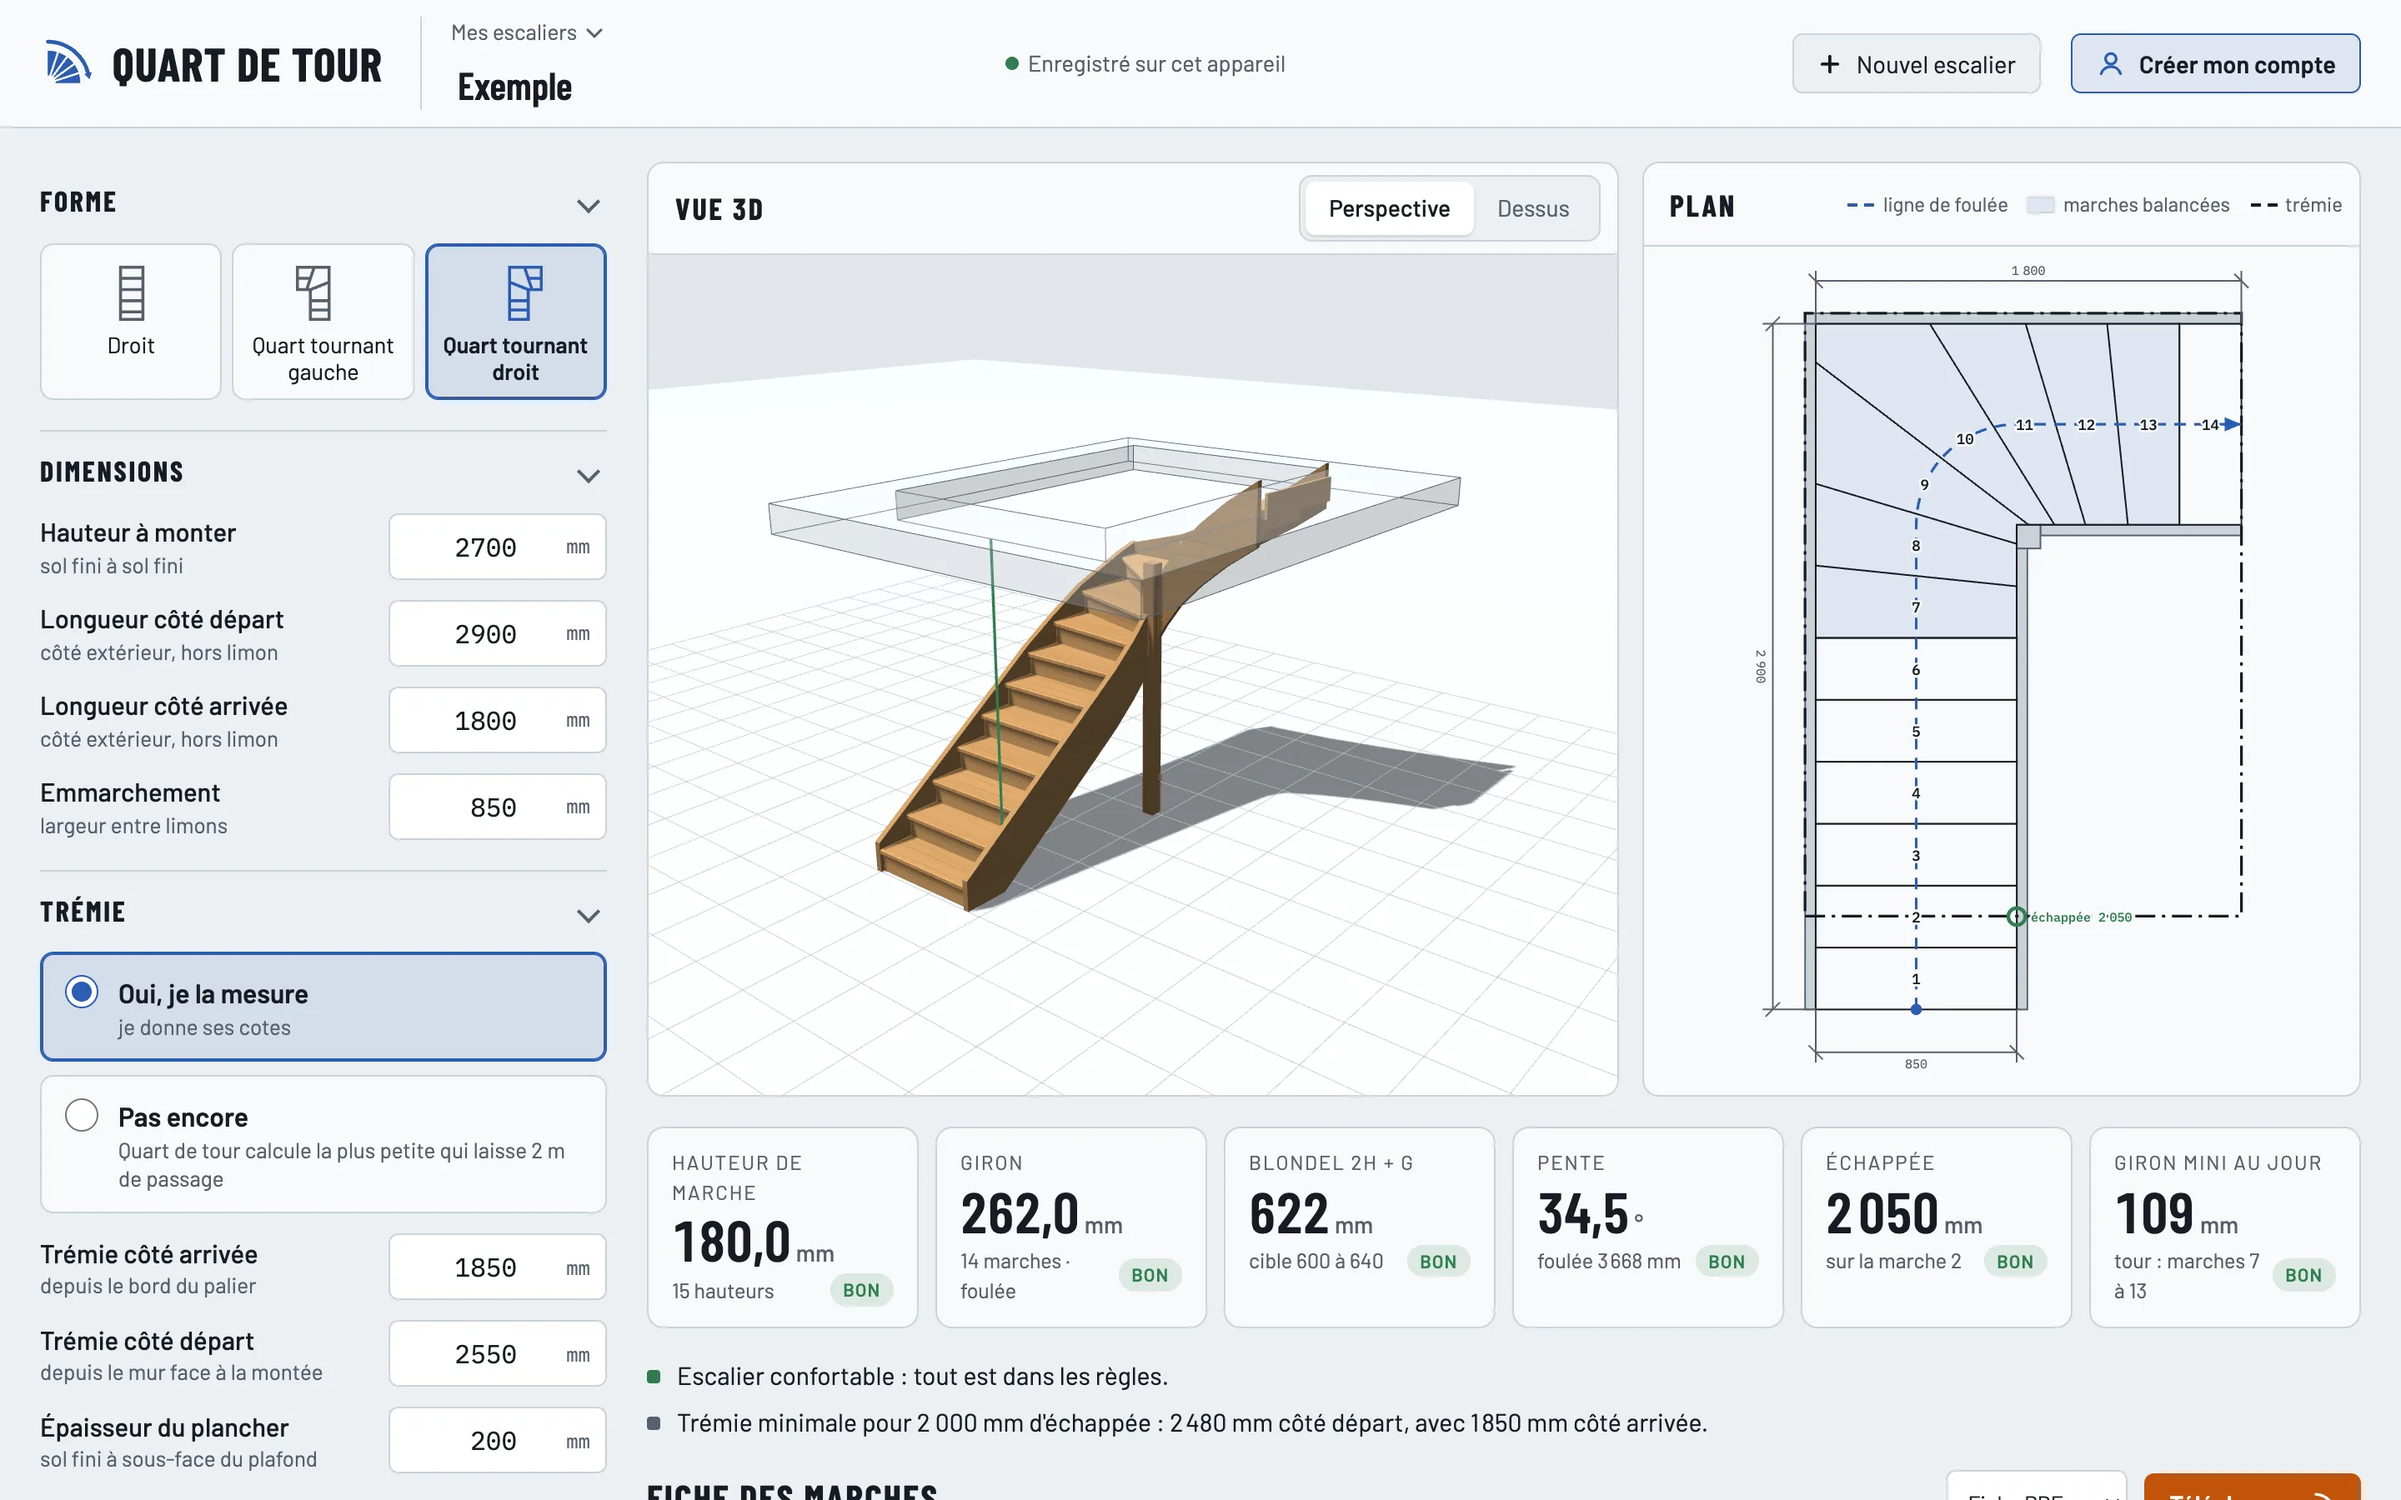
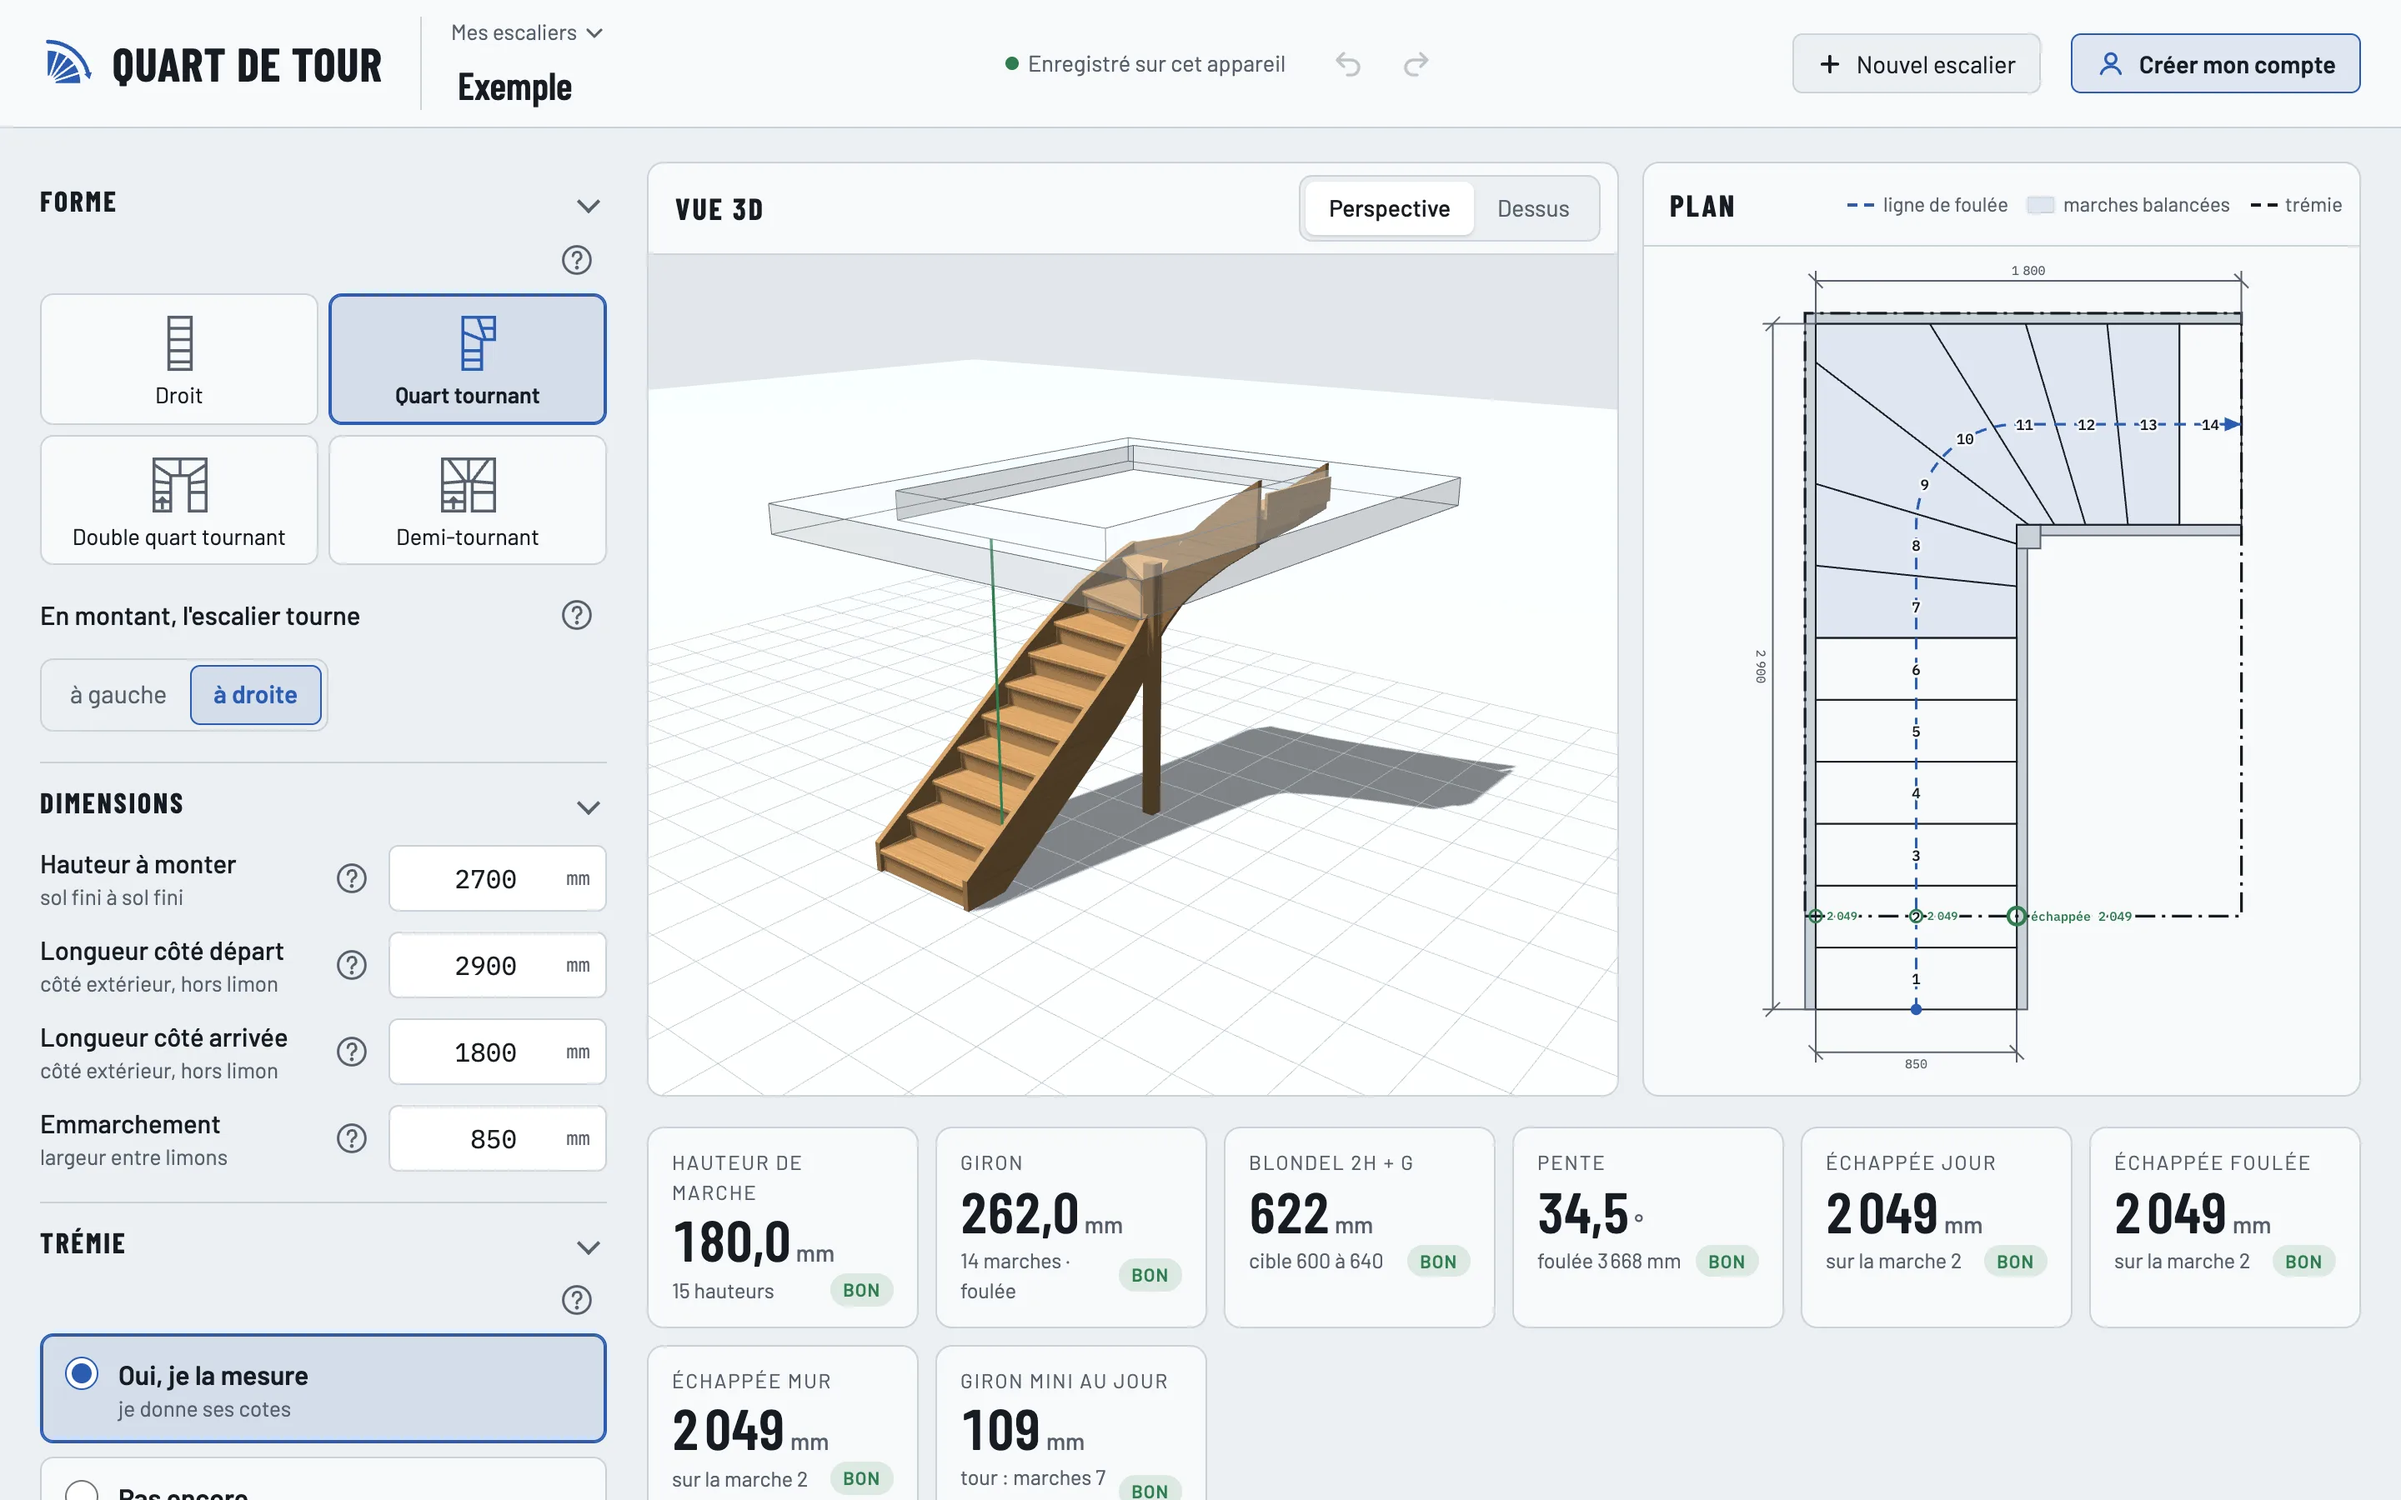
Forme en quatre cases, sens du tournant à part
Les sept cases deviennent quatre (droit, quart tournant, double quart
tournant, demi-tournant) ; « En montant, l'escalier tourne à gauche / à
droite » se choisit dessous quand la forme tourne, et les pictogrammes se
retournent avec. La forme enregistrée ne change pas (quart-g, demi-d…).

Une phrase sous les cases dit la différence entre double quart et
demi-tournant, et l'aide de la forme la précise.

diff --git a/app/index.html b/app/index.html
@@ -104,53 +104,45 @@
                   <path d="M11 9h12M11 15h12M11 21h12M11 27h12" /></svg
                 >Droit</label
               >
-              <input type="radio" name="forme" id="f-qg" value="quart-g" />
-              <label for="f-qg"
-                ><svg viewBox="0 0 34 34">
-                  <path d="M20 31V3H3v12h7v16z" />
-                  <path d="M10 26h10M10 21h10M10 15l10-4M8 15l4-12M3 9h7" /></svg
-                >Quart tournant gauche</label
-              >
-              <input type="radio" name="forme" id="f-qd" value="quart-d" />
-              <label for="f-qd"
-                ><svg viewBox="0 0 34 34">
+              <input type="radio" name="forme" id="f-quart" value="quart" />
+              <label for="f-quart"
+                ><svg class="tourne" viewBox="0 0 34 34">
                   <path d="M14 31V3h17v12h-7v16z" />
                   <path d="M14 26h10M14 21h10M24 15l-10-4M26 15l-4-12M31 9h-7" /></svg
-                >Quart tournant droit</label
+                >Quart tournant</label
               >
-              <input type="radio" name="forme" id="f-dqg" value="dq-g" />
-              <label for="f-dqg"
-                ><svg viewBox="0 0 34 34">
-                  <path d="M3 3h28v28h-9V12H12v19H3z" />
-                  <path d="M22 26h9M22 21h9M22 15l9 1M22 12l9-6M17 12V3M12 12L3 6M12 15l-9 1M3 21h9" />
-                  <path d="M26.5 30v-6M24.5 26l2-2 2 2" /></svg
-                >Double quart gauche</label
-              >
-              <input type="radio" name="forme" id="f-dqd" value="dq-d" />
-              <label for="f-dqd"
-                ><svg viewBox="0 0 34 34">
+              <input type="radio" name="forme" id="f-dq" value="dq" />
+              <label for="f-dq"
+                ><svg class="tourne" viewBox="0 0 34 34">
                   <path d="M3 3h28v28h-9V12H12v19H3z" />
                   <path d="M3 26h9M3 21h9M3 15l9 1M3 6l9 6M17 3v9M31 6l-9 6M31 15l-9 1M22 21h9" />
                   <path d="M7.5 30v-6M5.5 26l2-2 2 2" /></svg
-                >Double quart droit</label
+                >Double quart tournant</label
               >
-              <input type="radio" name="forme" id="f-demig" value="demi-g" />
-              <label for="f-demig"
-                ><svg viewBox="0 0 34 34">
-                  <path d="M3 3h28v28H19V15h-4v16H3z" />
-                  <path d="M19 26h12M19 21h12M19 15l12 1M19 15l9-12M17 15V3M15 15L6 3M15 15L3 16M3 21h12" />
-                  <path d="M25 30v-6M23 26l2-2 2 2" /></svg
-                >Demi-tournant gauche</label
-              >
-              <input type="radio" name="forme" id="f-demid" value="demi-d" />
-              <label for="f-demid"
-                ><svg viewBox="0 0 34 34">
+              <input type="radio" name="forme" id="f-demi" value="demi" />
+              <label for="f-demi"
+                ><svg class="tourne" viewBox="0 0 34 34">
                   <path d="M3 3h28v28H19V15h-4v16H3z" />
                   <path d="M3 26h12M3 21h12M15 15L3 16M15 15L6 3M17 15V3M19 15l9-12M19 15l12 1M19 21h12" />
                   <path d="M9 30v-6M7 26l2-2 2 2" /></svg
-                >Demi-tournant droit</label
+                >Demi-tournant</label
               >
             </div>
+            <div class="sensrow" data-show="quart">
+              <span>En montant, l'escalier tourne</span>
+              <div class="sens" role="radiogroup" aria-label="Sens du tournant">
+                <input type="radio" name="sens" id="s-g" value="g" /><label for="s-g">à gauche</label>
+                <input type="radio" name="sens" id="s-d" value="d" checked /><label for="s-d">à droite</label>
+              </div>
+            </div>
+            <p class="formenote" data-show="dq">
+              <b>Double quart tournant :</b> deux tournants séparés par une volée au fond, assez longue pour quelques
+              marches. Les deux volées sont loin l'une de l'autre.
+            </p>
+            <p class="formenote" data-show="demi">
+              <b>Demi-tournant :</b> les deux volées côte à côte, séparées par un jour étroit. On fait demi-tour d'un
+              coup, au fond, sans volée entre les deux.
+            </p>
           </div>
         </details>
         <details class="sec" data-step="dimensions" open>

diff --git a/src/core/aide.ts b/src/core/aide.ts
@@ -9,8 +9,9 @@ import { CONFORT, ECHAPPEE, ECHAPPEE_MIN, FOULEE_MAX } from "./stair";
  * conseillée quand le calcul en a une. Les chiffres viennent des constantes des contrôles, jamais recopiés.
  */
 
-/** Réglage qui a une aide : une clé de Params, ou un champ calculé (« tour », marches droites avant le tour). */
-export type AideKey = keyof Params | "tour";
+/** Réglage qui a une aide : une clé de Params, un champ calculé (« tour », marches droites avant le tour) ou le sens
+    du tournant, choisi à part de la forme. */
+export type AideKey = keyof Params | "tour" | "sens";
 
 export interface AideTexte {
   /** Définition, une ou deux phrases. */
@@ -47,7 +48,13 @@ const mp: AideTexte = {
 export const AIDE: Partial<Record<AideKey, AideTexte>> = {
   forme: {
     texte:
-      "Droit : une seule volée. Quart tournant : la volée tourne d'un angle droit, à gauche ou à droite en montant. Double quart tournant : elle tourne deux fois dans le même sens, en U. Demi-tournant : le même U autour d'un jour étroit. Les marches des tours sont balancées.",
+      "Droit : une seule volée. Quart tournant : la volée tourne d'un angle droit. Double quart tournant : elle tourne deux fois dans le même sens, en U, avec une volée au fond entre les deux tournants ; on mesure les trois côtés. Demi-tournant : les deux volées côte à côte, séparées par un jour étroit, et le demi-tour d'un coup au fond ; on mesure les deux côtés et le jour.",
+    conseil:
+      "Un double quart dont le fond rétrécit devient un demi-tournant : choisissez celui qui se mesure le mieux sur le chantier.",
+  },
+  sens: {
+    texte:
+      "Le côté vers lequel on tourne quand on monte l'escalier. Le plan et la 3D se retournent aussitôt : comparez-les au croquis du chantier.",
   },
   H: {
     texte:

diff --git a/src/styles/main.css b/src/styles/main.css
@@ -405,10 +405,11 @@ input[type="range"] {
 
 .shapes {
   display: grid;
-  grid-template-columns: repeat(3, 1fr);
+  grid-template-columns: repeat(2, 1fr);
   gap: 6px;
 }
-.shapes input {
+.shapes input,
+.sens input {
   position: absolute;
   opacity: 0;
   pointer-events: none;
@@ -442,6 +443,58 @@ input[type="range"] {
 }
 .shapes input:checked + label svg {
   stroke: var(--chalk);
+}
+/* Les pictogrammes sont dessinés à droite ; à gauche, leur miroir. */
+.sbody:has(#s-g:checked) .shapes svg.tourne {
+  transform: scaleX(-1);
+}
+/* Sens du tournant : deux boutons côte à côte, sous les formes qui tournent. */
+.sensrow {
+  display: flex;
+  flex-wrap: wrap;
+  gap: 8px 12px;
+  align-items: center;
+  justify-content: space-between;
+  font-size: 15.5px;
+  font-weight: 500;
+}
+.sens {
+  display: inline-flex;
+  padding: 3px;
+  border: 1px solid var(--rule);
+  border-radius: var(--r);
+  background: var(--paper);
+}
+.sens label {
+  display: grid;
+  place-items: center;
+  min-height: 36px;
+  padding: 0 14px;
+  border-radius: 6px;
+  color: var(--muted);
+  font-size: 15px;
+  font-weight: 400;
+  cursor: pointer;
+}
+.sens input:checked + label {
+  background: var(--chalk-soft);
+  color: var(--chalk);
+  font-weight: 600;
+  box-shadow: inset 0 0 0 1px var(--chalk);
+}
+.sens input:focus-visible + label {
+  outline: 2px solid var(--chalk);
+  outline-offset: 2px;
+}
+/* Différence entre les deux formes en U, sous les cases, dans les deux modes. */
+.formenote {
+  margin: 0;
+  font-size: 15px;
+  color: var(--muted);
+}
+.formenote b {
+  color: var(--ink);
+  font-weight: 600;
 }
 .shapes input:focus-visible + label,
 .choice:has(input:focus-visible) {

diff --git a/src/ui/settings.ts b/src/ui/settings.ts
@@ -23,7 +23,11 @@ const input = (id: string) => byId<HTMLInputElement>(id);
 const TRE_KEYS = ["tL", "tX", "tY", "tbD", "tbA"] as const;
 
 export function writeInputs(p: Params): void {
-  document.querySelectorAll<HTMLInputElement>('input[name="forme"]').forEach((r) => (r.checked = r.value === p.forme));
+  // La forme se choisit sans son sens (« quart »), le sens à part (« d ») ; l'escalier droit garde le sens précédent.
+  const [base, sens] = p.forme.split("-");
+  document.querySelectorAll<HTMLInputElement>('input[name="forme"]').forEach((r) => (r.checked = r.value === base));
+  if (sens)
+    document.querySelectorAll<HTMLInputElement>('input[name="sens"]').forEach((r) => (r.checked = r.value === sens));
   NUMERIC_KEYS.forEach((k) => (input(k).value = String(p[k])));
   BOOLEAN_KEYS.forEach((k) => (input(k).checked = p[k]));
   // La trémie se choisit entre deux cases : « Pas encore » (tAuto) et « Oui, je la mesure ».
@@ -39,8 +43,9 @@ export function writeInputs(p: Params): void {
 export function readInputs(prev: Params): { params: Params; missing: NumericKey[] } {
   const p = { ...prev };
   const missing: NumericKey[] = [];
-  const r = document.querySelector<HTMLInputElement>('input[name="forme"]:checked');
-  p.forme = (r ? r.value : "droit") as Forme;
+  const base = document.querySelector<HTMLInputElement>('input[name="forme"]:checked')?.value ?? "droit";
+  const sens = document.querySelector<HTMLInputElement>('input[name="sens"]:checked')?.value ?? "d";
+  p.forme = (base === "droit" ? base : `${base}-${sens}`) as Forme;
   NUMERIC_KEYS.forEach((k) => {
     const v = parseFloat(input(k).value);
     if (!Number.isNaN(v)) p[k] = v;

diff --git a/tests/settings.test.ts b/tests/settings.test.ts
@@ -83,6 +83,28 @@ describe("garde-corps", () => {
   });
 });
 
+describe("forme et sens du tournant", () => {
+  it("se choisissent à part et se relisent ensemble", () => {
+    const checked = () =>
+      [...document.querySelectorAll<HTMLInputElement>("input[name=forme], input[name=sens]")]
+        .filter((r) => r.checked)
+        .map((r) => r.value);
+    for (const forme of ["quart-g", "quart-d", "dq-g", "dq-d", "demi-g", "demi-d"] as const) {
+      writeInputs({ ...DEFAULTS, forme });
+      expect(readInputs(DEFAULTS).params.forme).toBe(forme);
+    }
+    writeInputs({ ...DEFAULTS, forme: "quart-g" });
+    expect(checked()).toEqual(["quart", "g"]);
+    // L'escalier droit n'a pas de sens : il garde le précédent pour la forme suivante.
+    writeInputs({ ...DEFAULTS, forme: "droit" });
+    expect(readInputs(DEFAULTS).params.forme).toBe("droit");
+    field("f-demi").checked = true;
+    expect(readInputs(DEFAULTS).params.forme).toBe("demi-g");
+    field("s-d").checked = true;
+    expect(readInputs(DEFAULTS).params.forme).toBe("demi-d");
+  });
+});
+
 describe("marche palière et trémie en L", () => {
   it("relisent leurs champs", () => {
     const p = { ...DEFAULTS, mp: true, mpP: 320, mpE: 50, tForme: "L" as const, tbD: 1000, tbA: 1100 };
